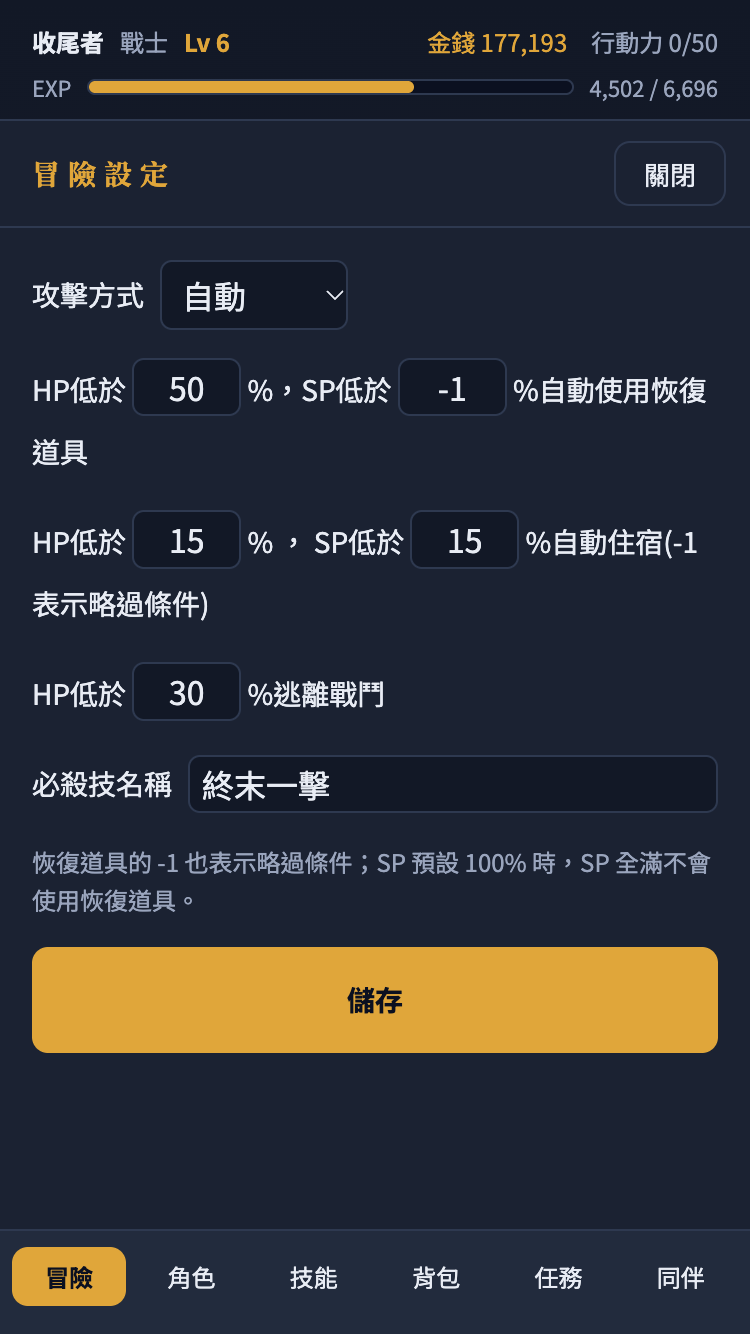
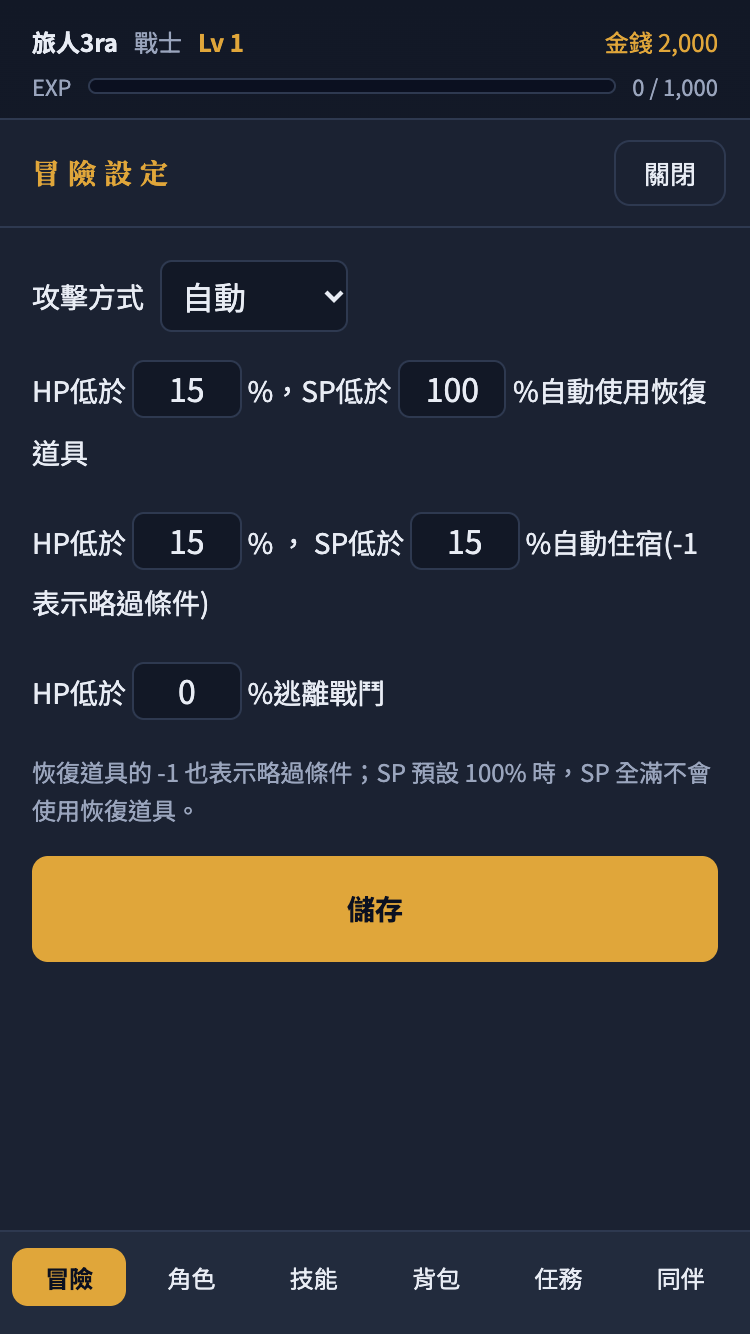
📄 docs: settle verify findings for remove-special-attack-name
- Limit the critical-hit spec sentence to the number and hit shake, matching its scenarios
- Drop stale test comments and move the misplaced stat comment back to its test
- Retake the README settings screenshot without the name field

diff --git a/backend/EndlessBattle.Tests/Domain/Battle/WogBattleTests.cs b/backend/EndlessBattle.Tests/Domain/Battle/WogBattleTests.cs
@@ -88,7 +88,7 @@ public class WogBattleTests
 
     // 玩家 agi 90 對 10：比值 9 → 機率 min(20, 90) = 20，倍率 min(10.8, 2) = 2。
     // 擲骰：先攻 0.0 玩家先；命中 0.0；暴擊依參數；傷害擲骰 0.0。
-    // 0.185 → 19 < 20 暴擊：A = 200，(200·4 − 50) = 750，rand(⌊3.75/3⌋, ⌊3.75/2⌋) = rand(1,1) = 1 → 751，剩 249，顯示必殺技名
+    // 0.185 → 19 < 20 暴擊：A = 200，(200·4 − 50) = 750，rand(⌊3.75/3⌋, ⌊3.75/2⌋) = rand(1,1) = 1 → 751，剩 249
     // 0.195 → 20 < 20 不成立（未封頂的 90 會暴擊）：150 + rand(0,0) → 150，剩 850
     [Theory]
     [InlineData(0.185, true, 751)]
@@ -103,7 +103,7 @@ public class WogBattleTests
             outcome.Events.OfType<AttackEvent>().First());
     }
 
-    // 怪物 agi 90 對玩家 10，用與玩家相同的公式（WOG 原程式的反向比值是 bug）：機率 20、倍率 2；怪物沒有必殺技名。
+    // 怪物 agi 90 對玩家 10，用與玩家相同的公式（WOG 原程式的反向比值是 bug）：機率 20、倍率 2。
     // 擲骰：先攻 0.99 → 100 > 30 怪物先；命中 0.0；暴擊 0.185 → 19 < 20；傷害擲骰 0.0 → 751，玩家 HP 不低於 0
     [Fact]
     public void Battle_MonsterCritUsesSameFormula()

diff --git a/backend/EndlessBattle.Tests/Api/CharacterEndpointsTests.cs b/backend/EndlessBattle.Tests/Api/CharacterEndpointsTests.cs
@@ -35,7 +35,6 @@ public class CharacterEndpointsTests(MySqlDatabaseFixture database)
         Assert.Equal(body.ToString(), me.ToString());
     }
 
-    // 戰士、配點 4/2/3/1 → Base (14,12,13,10,11,10,10)
     [Fact]
     public async Task Create_WithoutSpecialAttackName_CreatesCharacter()
     {
@@ -58,6 +57,7 @@ public class CharacterEndpointsTests(MySqlDatabaseFixture database)
         Assert.False(character.TryGetProperty("specialAttackName", out _));
     }
 
+    // 戰士、配點 4/2/3/1 → Base (14,12,13,10,11,10,10)
     [Fact]
     public async Task Create_ReturnsFullCharacter()
     {

diff --git a/backend/EndlessBattle.Tests/Domain/Battle/CombatantStateTests.cs b/backend/EndlessBattle.Tests/Domain/Battle/CombatantStateTests.cs
@@ -5,7 +5,7 @@ namespace EndlessBattle.Tests.Domain.Battle;
 
 public class CombatantStateTests
 {
-    // 怪物每場都從滿 HP／SP 開始，沒有必殺技名
+    // 怪物每場都從滿 HP／SP 開始
     [Fact]
     public void From_MonsterStartsAtFullHpAndSp()
     {

diff --git a/docs/spectra/changes/remove-special-attack-name/specs/critical-hits/spec.md b/docs/spectra/changes/remove-special-attack-name/specs/critical-hits/spec.md
@@ -6,7 +6,7 @@ Critical hits are shown by the damage number on the battle stage and by the word
 
 ### Requirement: Critical hits are shown by the damage number
 
-The battle stage SHALL mark a critical hit only through its damage number, and SHALL show no plate for it. The stage effects of a critical hit SHALL be the same whichever side attacks, apart from the side that takes the damage. A pet's attack SHALL follow the same rule. Non-critical hits SHALL use the normal damage number.
+The battle stage SHALL mark a critical hit only through its damage number, and SHALL show no plate for it. The damage number and hit shake of a critical hit SHALL be the same whichever side attacks, apart from the side that takes the damage. A pet's attack SHALL follow the same rule. Non-critical hits SHALL use the normal damage number.
 
 #### Scenario: A player's critical hit shows no plate
 
